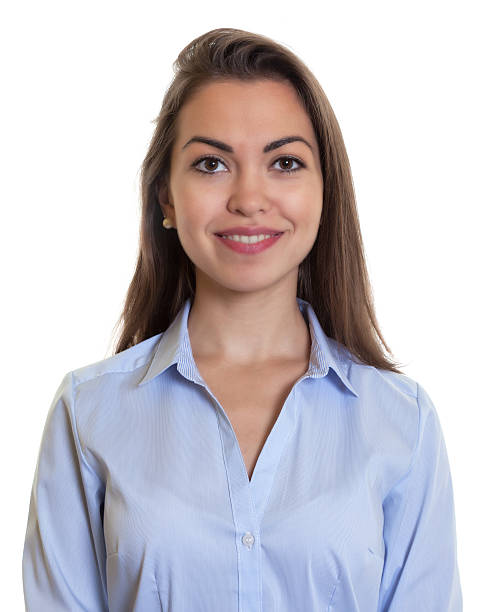
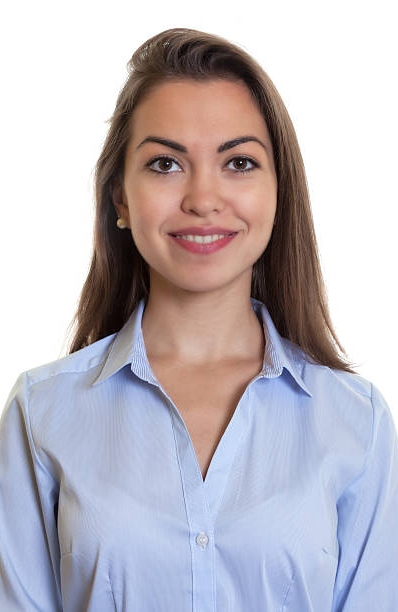
Imagenes y correccion perfil periodistas

diff --git a/periodistas/PerfilPeriodista 6.html b/periodistas/PerfilPeriodista 6.html
@@ -34,12 +34,11 @@
                     <a class="nav-link dropdown-toggle" href="#" id="navbarDropdown" role="button" data-bs-toggle="dropdown" aria-expanded="false">
                       Categorías
                     </a>
-                    <ul class="dropdown-menu" aria-labelledby="navbarDropdown">
-                      <li><a class="dropdown-item" href="gatos.html">...</a></li>
-                      <li><a class="dropdown-item" href="perros.html"></a></li>
-                      <li><hr class="dropdown-divider"></li>
-                      <li><a class="dropdown-item" href="#">...</a></li>
-                    </ul>
+                    <ul class="dropdown-menu">
+                      <li><a class="dropdown-item" href="#">Nacional</a></li>
+                     <li><a class="dropdown-item" href="#">Mundo</a></li>
+                     <li><a class="dropdown-item" href="#">Dato Útil</a></li>
+                  </ul>
                 </li>
                 <li class="nav-item">
                   <a class="nav-link" href="../PagPeriodistas.html">Periodistas</a>
@@ -80,11 +79,11 @@
       <div class="row justify-content-center">
       <div class="card w-50" id="blockborder2">
         <div class="card-body justify-content-center" >
-          <h6 class="display-6"> Nombre : Sebastian Antupiren</h6>
-          <h6 class="display-6" > <img src="" id="imgderecha" width="200px" height="150px" alt=""> Edad : 23</h6>
-          <h6 class="display-6" >Categorias : Nacional</h6>
-          <h6 class="display-6" >Ocupacion /Es : Estudia en la universidad de chile y tiene una pyme de verduras</h6>
-          <h6 class="display-6">Cantidad Noticias : 1 </h6>
+          <h6 class="display-6"> Nombre: Sebastián Antupiren</h6>
+          <h6 class="display-6" > <img src="/ImgPeriodistas/Periodista6.jpg" id="imgderecha" width="150px" height="170px" alt=""> Edad: 23</h6>
+          <h6 class="display-6" >Categorías: Nacional</h6>
+          <h6 class="display-6" >Ocupación/es: Estudiante de Periodismo | U. de Chile, pyme de frutas y verduras a domicilio</h6>
+          <h6 class="display-6">Cantidad Noticias: 1 </h6>
           <div class="pading"></div>
         </div>
       </div>

diff --git a/periodistas/PerfilPeriodista 5.html b/periodistas/PerfilPeriodista 5.html
@@ -32,12 +32,11 @@
                     <a class="nav-link dropdown-toggle" href="#" id="navbarDropdown" role="button" data-bs-toggle="dropdown" aria-expanded="false">
                       Categorías
                     </a>
-                    <ul class="dropdown-menu" aria-labelledby="navbarDropdown">
-                      <li><a class="dropdown-item" href="gatos.html">...</a></li>
-                      <li><a class="dropdown-item" href="perros.html"></a></li>
-                      <li><hr class="dropdown-divider"></li>
-                      <li><a class="dropdown-item" href="#">...</a></li>
-                    </ul>
+                    <ul class="dropdown-menu">
+                      <li><a class="dropdown-item" href="#">Nacional</a></li>
+                     <li><a class="dropdown-item" href="#">Mundo</a></li>
+                     <li><a class="dropdown-item" href="#">Dato Útil</a></li>
+                  </ul>
                 </li>
                 <li class="nav-item">
                   <a class="nav-link" href="../PagPeriodistas.html">Periodistas</a>
@@ -78,11 +77,11 @@
       <div class="row justify-content-center">
       <div class="card w-50" id="blockborder2">
         <div class="card-body justify-content-center" >
-          <h6 class="display-6"> Nombre : Andres Castro</h6>
-          <h6 class="display-6" > <img src="" id="imgderecha" width="200px" height="150px" alt=""> Edad : 24</h6>
-          <h6 class="display-6" >Categorias : Dato Util</h6>
-          <h6 class="display-6" >Ocupacion /Es : Estudia en la universidad Inacap y es profesor en sus tiempos libre de ingles </h6>
-          <h6 class="display-6">Cantidad Noticias : 1 </h6>
+          <h6 class="display-6"> Nombre: Andres Castro</h6>
+          <h6 class="display-6" > <img src="/ImgPeriodistas/Periodista5.jpg" id="imgderecha" width="150px" height="170px" alt=""> Edad: 24</h6>
+          <h6 class="display-6" >Categorías: Dato Útil</h6>
+          <h6 class="display-6" >Ocupación/es: Estudiante de Periodismo | Inacap, profesor de Inglés(ayudantías)</h6>
+          <h6 class="display-6">Cantidad Noticias: 1 </h6>
           <div class="pading"></div>
         </div>
       </div>

diff --git a/periodistas/PerfilPeriodista 2.html b/periodistas/PerfilPeriodista 2.html
@@ -34,12 +34,11 @@
                     <a class="nav-link dropdown-toggle" href="#" id="navbarDropdown" role="button" data-bs-toggle="dropdown" aria-expanded="false">
                       Categorías
                     </a>
-                    <ul class="dropdown-menu" aria-labelledby="navbarDropdown">
-                      <li><a class="dropdown-item" href="gatos.html">...</a></li>
-                      <li><a class="dropdown-item" href="perros.html"></a></li>
-                      <li><hr class="dropdown-divider"></li>
-                      <li><a class="dropdown-item" href="#">...</a></li>
-                    </ul>
+                    <ul class="dropdown-menu">
+                      <li><a class="dropdown-item" href="#">Nacional</a></li>
+                     <li><a class="dropdown-item" href="#">Mundo</a></li>
+                     <li><a class="dropdown-item" href="#">Dato Útil</a></li>
+                  </ul>
                 </li>
                 <li class="nav-item">
                   <a class="nav-link" href="../PagPeriodistas.html">Periodistas</a>
@@ -80,11 +79,11 @@
       <div class="row justify-content-center">
       <div class="card w-50" id="blockborder2">
         <div class="card-body justify-content-center" >
-          <h6 class="display-6"> Nombre :Cristina Carrasco</h6>
-          <h6 class="display-6" > <img src="" id="imgderecha" width="200px" height="150px" alt=""> Edad : 23</h6>
-          <h6 class="display-6" >Categorias : dato Util </h6>
-          <h6 class="display-6" >Ocupacion /Es : Estudia en la universidad Catolica y tiene una pyme de choclos </h6>
-          <h6 class="display-6">Cantidad Noticias : 1 </h6>
+          <h6 class="display-6"> Nombre: Cristina Carrasco</h6>
+          <h6 class="display-6" > <img src="/ImgPeriodistas/Periodista2.jpg" id="imgderecha" width="150px" height="170px" alt=""> Edad: 23</h6>
+          <h6 class="display-6" >Categorías: Dato Útil </h6>
+          <h6 class="display-6" >Ocupación/es: Estudiante de Periodismo | U. de Chile, pyme de choclos a domicilio.</h6>
+          <h6 class="display-6">Cantidad Noticias: 1 </h6>
           <div class="pading"></div>
         </div>
       </div>

diff --git a/periodistas/PerfilPeriodista 3.html b/periodistas/PerfilPeriodista 3.html
@@ -34,11 +34,10 @@
                     <a class="nav-link dropdown-toggle" href="#" id="navbarDropdown" role="button" data-bs-toggle="dropdown" aria-expanded="false">
                       Categorías
                     </a>
-                    <ul class="dropdown-menu" aria-labelledby="navbarDropdown">
-                      <li><a class="dropdown-item" href="gatos.html">...</a></li>
-                      <li><a class="dropdown-item" href="perros.html"></a></li>
-                      <li><hr class="dropdown-divider"></li>
-                      <li><a class="dropdown-item" href="#">...</a></li>
+                    <ul class="dropdown-menu">
+                      <li><a class="dropdown-item" href="#">Nacional</a></li>
+                     <li><a class="dropdown-item" href="#">Mundo</a></li>
+                     <li><a class="dropdown-item" href="#">Dato Útil</a></li>
                     </ul>
                 </li>
                 <li class="nav-item">
@@ -81,11 +80,11 @@
       <div class="row justify-content-center">
       <div class="card w-50" id="blockborder2">
         <div class="card-body justify-content-center" >
-          <h6 class="display-6"> Nombre : Valentina Flores</h6>
-          <h6 class="display-6" > <img src="" id="imgderecha" width="200px" height="150px" alt=""> Edad : 23</h6>
-          <h6 class="display-6" >Categorias : Nacional</h6>
-          <h6 class="display-6" >Ocupacion /Es : Estudia en la universidad de chile y es mienbro de ayudaunpeludo</h6>
-          <h6 class="display-6">Cantidad Noticias : 1 </h6>
+          <h6 class="display-6">Nombre: Valentina Flores</h6>
+          <h6 class="display-6"> <img src="/ImgPeriodistas/Periodista3.jpg" id="imgderecha" width="150px" height="170px" alt=""> Edad: 23</h6>
+          <h6 class="display-6">Categorias: Nacional</h6>
+          <h6 class="display-6">Ocupación/es: Estudiante de Periodismo | U. de Chile, voluntaria en ONG Ayudaunpeludo</h6>
+          <h6 class="display-6">Cantidad Noticias: 1 </h6>
           <div class="pading"></div>
         </div>
       </div>

diff --git a/periodistas/PerfilPeriodista 4.html b/periodistas/PerfilPeriodista 4.html
@@ -34,11 +34,10 @@
                     <a class="nav-link dropdown-toggle" href="#" id="navbarDropdown" role="button" data-bs-toggle="dropdown" aria-expanded="false">
                       Categorías
                     </a>
-                    <ul class="dropdown-menu" aria-labelledby="navbarDropdown">
-                      <li><a class="dropdown-item" href="gatos.html">...</a></li>
-                      <li><a class="dropdown-item" href="perros.html"></a></li>
-                      <li><hr class="dropdown-divider"></li>
-                      <li><a class="dropdown-item" href="#">...</a></li>
+                    <ul class="dropdown-menu">
+                      <li><a class="dropdown-item" href="#">Nacional</a></li>
+                     <li><a class="dropdown-item" href="#">Mundo</a></li>
+                     <li><a class="dropdown-item" href="#">Dato Útil</a></li>
                     </ul>
                 </li>
                 <li class="nav-item">
@@ -80,11 +79,11 @@
       <div class="row justify-content-center">
       <div class="card w-50" id="blockborder2">
         <div class="card-body justify-content-center" >
-          <h6 class="display-6"> Nombre : Marcos Bandera </h6>
-          <h6 class="display-6" > <img src="" id="imgderecha" width="200px" height="150px" alt=""> Edad : 25</h6>
-          <h6 class="display-6" >Categorias : Mundo</h6>
-          <h6 class="display-6" >Ocupacion /Es : Estudia en la universidad USACH y es primera linea </h6>
-          <h6 class="display-6">Cantidad Noticias : 1 </h6>
+          <h6 class="display-6"> Nombre: Marcos Bandera </h6>
+          <h6 class="display-6"> <img src="/ImgPeriodistas/Periodista4.jpg" id="imgderecha" width="150px" height="170px" alt=""> Edad: 25</h6>
+          <h6 class="display-6">Categorías: Mundo</h6>
+          <h6 class="display-6">Ocupación/es: Estudia en la universidad USACH y es primera linea </h6>
+          <h6 class="display-6">Cantidad Noticias: 1 </h6>
           <div class="pading"></div>
         </div>
       </div>

diff --git a/periodistas/PerfilPeriodista 1.html b/periodistas/PerfilPeriodista 1.html
@@ -36,7 +36,7 @@
                     <ul class="dropdown-menu">
                       <li><a class="dropdown-item" href="#">Nacional</a></li>
                      <li><a class="dropdown-item" href="#">Mundo</a></li>
-                     <li><a class="dropdown-item" href="#">Dato Util</a></li>
+                     <li><a class="dropdown-item" href="#">Dato Útil</a></li>
                   </ul>
                 </li>
                 <li class="nav-item">
@@ -78,11 +78,11 @@
     <div class="row justify-content-center">
     <div class="card w-50" id="blockborder2">
       <div class="card-body justify-content-center" >
-        <h6 class="display-6"> Nombre : Maite Sepulveda</h6>
-        <h6 class="display-6" > <img src="" id="imgderecha" width="200px" height="150px" alt=""> Edad : 24</h6>
-        <h6 class="display-6" >Categorias : Mundo</h6>
-        <h6 class="display-6" >Ocupacion /Es : Estudia en la universidad Duoc UC y ayuda en la ong  </h6>
-        <h6 class="display-6">Cantidad Noticias : 1 </h6>
+        <h6 class="display-6"> Nombre: Maite Sepulveda</h6>
+        <h6 class="display-6"> <img src="/ImgPeriodistas/Periodista1.jpg" id="imgderecha" width="150px" height="170px" alt=""> Edad: 24</h6>
+        <h6 class="display-6">Categorías: Mundo</h6>
+        <h6 class="display-6">Ocupación/es: Estudiante de Periodismo | Duoc UC, voluntaria en la Cruz Roja, trabajo part time de reponedora  </h6>
+        <h6 class="display-6">Cantidad Noticias: 1 </h6>
         <div class="pading"></div>
       </div>
     </div>

diff --git a/index.html b/index.html
@@ -188,7 +188,7 @@
                 </div>
                 <div class="col-md-8">
                   <div class="card-body">
-                    <a href="DetalleNoticia.html" id="fontcardindex">Se agotó el oxígeno: Se pierde la esperanza para rescatar a tripulación de submarino...</a>
+                    <a href="Noticias\Mundo2.html" id="fontcardindex">Se agotó el oxígeno: Se pierde la esperanza para rescatar a tripulación de submarino...</a>
                   </div>
                 </div>
               </div>

diff --git a/MiEstilo.css b/MiEstilo.css
@@ -1,5 +1,5 @@
 .navbar{
-    background-color: #25c7b2d3;
+    background-color: #25c7b1;
     min-height: 50px;
 }
 
@@ -150,10 +150,11 @@ h6{
 
 #imgderecha{
     float: right;
+    padding-left: 6%;
 }
 
 .display-6{
-    font-size:x-large;
+    font-size:large;
 }
 
 
